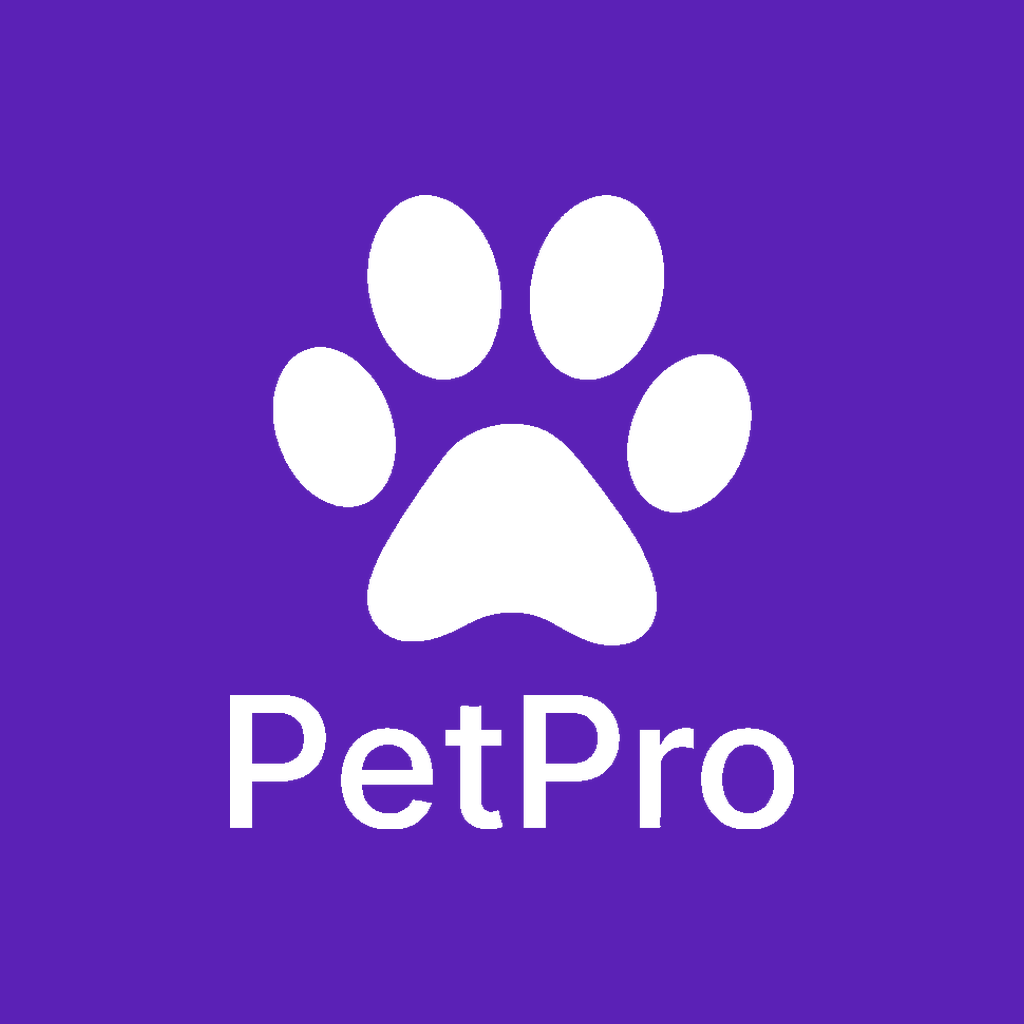
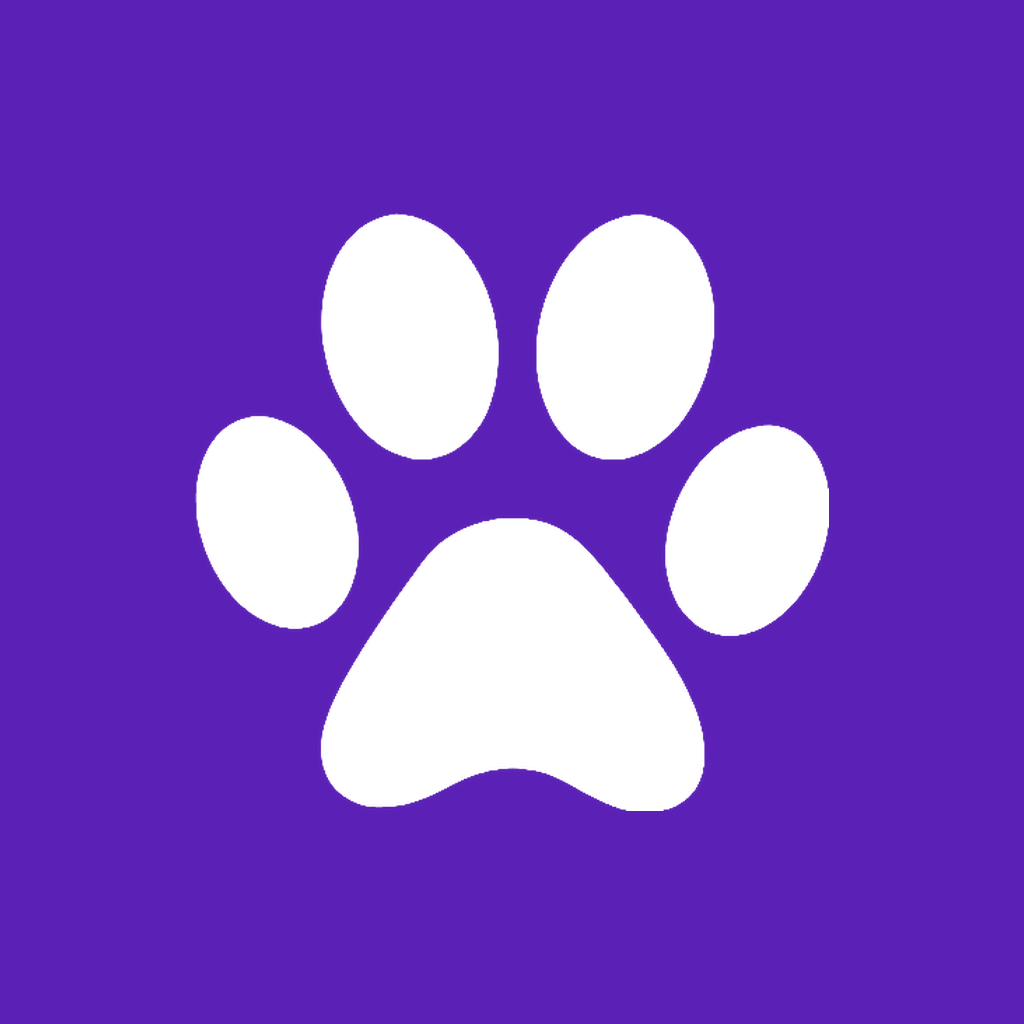
Add start-free-trial function for app card-free trials

Changed region(s): [[0.1875, 0.1875, 0.8125, 0.8125]]

diff --git a/supabase/functions/start-free-trial/index.ts b/supabase/functions/start-free-trial/index.ts
@@ -1,0 +1,182 @@
+// =============================================================================
+// start-free-trial — Card-free 14-day trial, MOBILE APP ONLY
+// =============================================================================
+// Called by the PetPro mobile app right after account creation, INSTEAD of
+// opening Stripe (Google Play forbids in-app subscription payments). Stamps
+// the groomer as trialing for 14 days with their chosen tier and grants that
+// tier's AI-token + SMS quotas so the app is fully usable during the trial.
+//
+// When the trial ends, SubscriptionGate (web) + the app both block access and
+// point them to trypetpro.com/plans — the existing Stripe checkout. The WEB
+// signup flow is NOT changed: web users still go through Stripe up front
+// (Nicole keeps Stripe as the bot gate on the website).
+//
+// SECURITY (two locks, both required):
+//   1. x-petpro-app-key header must match the PETPRO_APP_TRIAL_KEY secret —
+//      only the mobile app ships this key, so the website/bots can't call it.
+//      FAIL-CLOSED: if the secret isn't configured, every request is refused.
+//   2. ONCE EVER per account: refused if the groomer has ANY subscription
+//      status or trial date already — no trial farming, no trial refresh,
+//      no "trial" for someone who canceled a paid plan.
+//
+// Request:  POST { tier: 'basic' | 'pro' | 'pro_plus' | 'growing' }
+//           Headers: Authorization: Bearer <user JWT>
+//                    x-petpro-app-key: <PETPRO_APP_TRIAL_KEY>
+// Returns:  { trial_started: true, tier, trial_ends_at } | { error }
+//
+// Required secrets (Supabase → Edge Functions → Secrets):
+//   PETPRO_APP_TRIAL_KEY — long random string, same value baked into the app
+//
+// Deploy: supabase functions deploy start-free-trial
+// =============================================================================
+
+import { serve } from "https://deno.land/std@0.168.0/http/server.ts"
+import { createClient } from "https://esm.sh/@supabase/supabase-js@2.39.0"
+
+const corsHeaders = {
+  "Access-Control-Allow-Origin": "*",
+  "Access-Control-Allow-Headers": "authorization, x-client-info, apikey, content-type, x-petpro-app-key",
+  "Access-Control-Allow-Methods": "POST, OPTIONS",
+}
+
+const TRIAL_DAYS = 14
+
+// Mirrors stripe-webhook's TIER_TO_MONTHLY_TOKENS — keep these in sync.
+const TIER_TO_MONTHLY_TOKENS: Record<string, number> = {
+  "basic": 500,
+  "pro": 800,
+  "pro_plus": 1000,
+  "growing": 3000,
+}
+
+serve(async (req) => {
+  if (req.method === "OPTIONS") return new Response("ok", { headers: corsHeaders })
+  if (req.method !== "POST") return jsonError("Method not allowed", 405)
+
+  try {
+    // ─── Lock 1: app key (fail-closed) ───────────────────────────────────
+    const expectedKey = Deno.env.get("PETPRO_APP_TRIAL_KEY") || ""
+    const givenKey = req.headers.get("x-petpro-app-key") || ""
+    if (!expectedKey) {
+      console.error("[start-free-trial] PETPRO_APP_TRIAL_KEY not configured — refusing all requests")
+      return jsonError("Trial signup is not available right now.", 503)
+    }
+    if (givenKey !== expectedKey) {
+      console.warn("[start-free-trial] bad or missing app key — rejected")
+      return jsonError("Not authorized.", 403)
+    }
+
+    // ─── Validate tier ────────────────────────────────────────────────────
+    const body = await req.json().catch(() => ({}))
+    const tier = String(body.tier || "").toLowerCase()
+    if (TIER_TO_MONTHLY_TOKENS[tier] === undefined) {
+      return jsonError("Invalid tier. Expected basic, pro, pro_plus, or growing.", 400)
+    }
+
+    // ─── Auth: must be a logged-in user (the account the app just made) ──
+    const jwt = (req.headers.get("Authorization") || "").replace(/^Bearer\s+/i, "")
+    if (!jwt) return jsonError("Not authenticated.", 401)
+
+    const adminClient = createClient(
+      Deno.env.get("SUPABASE_URL")!,
+      Deno.env.get("SUPABASE_SERVICE_ROLE_KEY")!,
+      { auth: { autoRefreshToken: false, persistSession: false } }
+    )
+    const { data: { user }, error: authErr } = await adminClient.auth.getUser(jwt)
+    if (authErr || !user) return jsonError("Not authenticated.", 401)
+
+    // ─── Find the groomer row (id = auth user id; email fallback) ────────
+    let { data: groomer } = await adminClient
+      .from("groomers")
+      .select("id, subscription_status, subscription_tier, trial_ends_at")
+      .eq("id", user.id)
+      .maybeSingle()
+    if (!groomer && user.email) {
+      const { data: byEmail } = await adminClient
+        .from("groomers")
+        .select("id, subscription_status, subscription_tier, trial_ends_at")
+        .eq("email", user.email)
+        .maybeSingle()
+      if (byEmail) groomer = byEmail
+    }
+    if (!groomer) {
+      return jsonError("Account profile not found — finish creating your account first.", 404)
+    }
+
+    // ─── Lock 2: once EVER ────────────────────────────────────────────────
+    // Any prior subscription status OR trial date means this account already
+    // had its shot (trialing, active, canceled, past_due — all of them).
+    if (groomer.subscription_status || groomer.trial_ends_at) {
+      return jsonError("This account already has a plan or has used its free trial. Manage your plan at trypetpro.com.", 409)
+    }
+
+    // ─── Start the trial ──────────────────────────────────────────────────
+    const trialEndsAt = new Date(Date.now() + TRIAL_DAYS * 24 * 60 * 60 * 1000).toISOString()
+    const { error: updErr } = await adminClient
+      .from("groomers")
+      .update({
+        subscription_tier: tier,
+        subscription_status: "trialing",
+        trial_ends_at: trialEndsAt,
+      })
+      .eq("id", groomer.id)
+      .is("trial_ends_at", null) // belt-and-suspenders vs. double-tap race
+    if (updErr) {
+      console.error("[start-free-trial] groomers update failed:", updErr)
+      return jsonError("Could not start your trial — please try again.", 500)
+    }
+
+    // ─── Grant tier quotas (mirrors stripe-webhook's tier sync) ──────────
+    // Tokens — create-or-refill the balance row
+    const monthlyTokens = TIER_TO_MONTHLY_TOKENS[tier]
+    const { data: existingBal } = await adminClient
+      .from("groomer_token_balance")
+      .select("groomer_id")
+      .eq("groomer_id", groomer.id)
+      .maybeSingle()
+    if (!existingBal) {
+      await adminClient.from("groomer_token_balance").insert({
+        groomer_id: groomer.id,
+        monthly_tokens_remaining: monthlyTokens,
+        monthly_tokens_total: monthlyTokens,
+        monthly_period_start: new Date().toISOString().slice(0, 10),
+      })
+    } else {
+      await adminClient
+        .from("groomer_token_balance")
+        .update({
+          monthly_tokens_total: monthlyTokens,
+          monthly_tokens_remaining: monthlyTokens,
+          monthly_period_start: new Date().toISOString().slice(0, 10),
+          updated_at: new Date().toISOString(),
+        })
+        .eq("groomer_id", groomer.id)
+    }
+
+    // SMS — same RPC the live webhook uses (handles tier amounts atomically)
+    const { error: smsErr } = await adminClient.rpc("sync_sms_allocation_for_tier", {
+      p_groomer_id: groomer.id,
+      p_tier: tier,
+    })
+    if (smsErr) {
+      // Non-fatal: trial still starts; SMS quota syncs again when they pay.
+      console.error("[start-free-trial] SMS allocation sync failed (non-fatal):", smsErr)
+    }
+
+    console.log(`[start-free-trial] 🎉 ${groomer.id} started ${TRIAL_DAYS}-day ${tier} trial (ends ${trialEndsAt})`)
+    return new Response(
+      JSON.stringify({ trial_started: true, tier, trial_ends_at: trialEndsAt }),
+      { status: 200, headers: { ...corsHeaders, "Content-Type": "application/json" } }
+    )
+  } catch (err) {
+    console.error("[start-free-trial] uncaught:", err)
+    return jsonError("Internal error", 500)
+  }
+})
+
+function jsonError(message: string, status = 400): Response {
+  return new Response(
+    JSON.stringify({ error: message }),
+    { status, headers: { ...corsHeaders, "Content-Type": "application/json" } }
+  )
+}

diff --git a/petpro-mobile/App.js b/petpro-mobile/App.js
@@ -331,8 +331,24 @@ export default function App() {
           <MainTabs session={session} onSignOut={signOut} />
           <StatusBar style="light" />
         </NavigationContainer>
+      ) : authView === 'welcome' ? (
+        <View style={styles.container}>
+          <Text style={styles.logo}>🐾</Text>
+          <Text style={styles.title}>PetPro</Text>
+          <Text style={styles.tagline}>Grooming & boarding, run from your pocket.</Text>
+
+          <Pressable style={styles.button} onPress={() => { setError(''); setAuthView('login'); }}>
+            <Text style={styles.buttonText}>Log In</Text>
+          </Pressable>
+
+          <Text style={styles.welcomeHint}>New to PetPro? Create your account and choose a plan at{'\n'}petpro-app.vercel.app — then log in here.</Text>
+          <StatusBar style="light" />
+        </View>
       ) : (
         <KeyboardAvoidingView style={styles.container} behavior={Platform.OS === 'ios' ? 'padding' : undefined}>
+          <Pressable style={styles.backLink} onPress={() => { setError(''); setAuthView('welcome'); }}>
+            <Ionicons name="chevron-back" size={18} color="#ddd6fe" /><Text style={styles.backLinkText}>Back</Text>
+          </Pressable>
           <Text style={styles.logo}>🐾</Text>
           <Text style={styles.title}>PetPro</Text>
           <Text style={styles.tagline}>Sign in to your shop</Text>
@@ -352,6 +368,7 @@ export default function App() {
           <Pressable style={[styles.button, loading && { opacity: 0.6 }]} onPress={signIn} disabled={loading}>
             {loading ? <ActivityIndicator color="#5b21b6" /> : <Text style={styles.buttonText}>Sign In</Text>}
           </Pressable>
+          <Text style={styles.createLinkText}>New to PetPro? Sign up at petpro-app.vercel.app</Text>
           <StatusBar style="light" />
         </KeyboardAvoidingView>
       )}
@@ -371,5 +388,12 @@ const styles = StyleSheet.create({
   eyeBtn: { padding: 4 },
   button: { width: '100%', maxWidth: 360, backgroundColor: '#fff', borderRadius: 12, paddingVertical: 15, alignItems: 'center', marginTop: 8 },
   buttonText: { color: '#5b21b6', fontSize: 16, fontWeight: '800' },
+  buttonOutline: { width: '100%', maxWidth: 360, borderRadius: 12, paddingVertical: 15, alignItems: 'center', marginTop: 12, borderWidth: 2, borderColor: '#ffffff' },
+  buttonOutlineText: { color: '#fff', fontSize: 16, fontWeight: '800' },
+  welcomeHint: { color: '#c4b5fd', fontSize: 13, textAlign: 'center', marginTop: 22, maxWidth: 320, lineHeight: 19 },
+  backLink: { flexDirection: 'row', alignItems: 'center', alignSelf: 'flex-start', position: 'absolute', top: 56, left: 20 },
+  backLinkText: { color: '#ddd6fe', fontSize: 15, fontWeight: '600' },
+  createLink: { marginTop: 18, paddingVertical: 8 },
+  createLinkText: { color: '#ddd6fe', fontSize: 14, fontWeight: '700' },
   error: { color: '#fecaca', fontSize: 14, marginBottom: 8, textAlign: 'center' },
 });

diff --git a/src/pages/Calendar.jsx b/src/pages/Calendar.jsx
@@ -3644,8 +3644,9 @@ export default function Calendar() {
                                 onDayClick={(date) => { setCurrentDate(date); setView('day') }}
                             />
 
-                            {/* Quick Jump — 1 to 14 weeks out from today (matches MoeGo) */}
+                            {/* Quick Jump — 1 to 14 weeks out from the VIEWED day; clicks stack (8 → 16 → 24) */}
                             <QuickJump
+                                currentDate={currentDate}
                                 onJump={(date) => { setCurrentDate(date); setView('day') }}
                             />
 
@@ -8762,16 +8763,22 @@ function MonthView({ currentDate, appointments, onDayClick }) {
 }
 
 // ─────────────────────────────────────────────────────────────────────
-// QuickJump — 1 through 14 weeks out from today (matches MoeGo).
+// QuickJump — 1 through 14 weeks out from the day you're VIEWING.
 // Click a button → calendar jumps to that date and switches to day view.
 // Clients constantly ask "book me in 4 weeks" / "book me in 8 weeks" —
 // this saves clicking week-by-week through the mini calendar.
+// Jumps STACK: clicking "8 weeks out" again jumps another 8 weeks from
+// where you landed (8 → 16 → 24...), so you can keep hopping forward
+// when the first date doesn't work. From today's view, the first click
+// behaves exactly like before.
 // ─────────────────────────────────────────────────────────────────────
-function QuickJump({ onJump }) {
+function QuickJump({ currentDate, onJump }) {
     const WEEKS = [1, 2, 3, 4, 5, 6, 7, 8, 9, 10, 11, 12, 13, 14]
 
     function jumpToWeeksOut(n) {
-        const target = new Date()
+        // Base = the day the calendar is showing (not today), so repeat
+        // clicks compound instead of landing on the same date.
+        const target = currentDate ? new Date(currentDate) : new Date()
         target.setHours(0, 0, 0, 0)
         target.setDate(target.getDate() + (n * 7))
         onJump(target)

diff --git a/BUILD PLAN — Jun 11-14.md b/BUILD PLAN — Jun 11-14.md
@@ -133,6 +133,13 @@ one (gate at birth — way easier than retrofitting after launch).
 - Real-world promo link test (first genuinely-referred client proves the chain)
 
 ## 🅿️ Parked for later (deliberate)
+- CARD-FREE TRIAL (smooths the Play Store funnel): app signup starts the
+  14-day trial instantly — NO card, NO website visit; groomer is using
+  PetPro the same hour. Website asks for the card only when the trial
+  ends. SubscriptionGate already supports it (status='trialing' +
+  trial_ends_at); needs a backend path that sets those at signup without
+  Stripe. Replaces the "type trypetpro.com to pay first" step for new
+  app users. Park until after Play launch.
 - Referrer auto-rewards (apply credit at their next checkout automatically)
 - Multi-business / Enterprise (next year)
 - Abandoned-booking recovery + embeddable booking widget